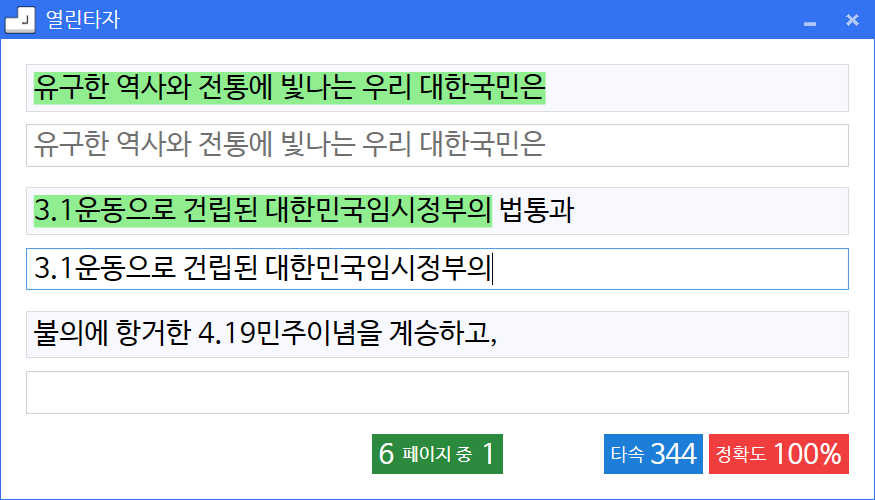
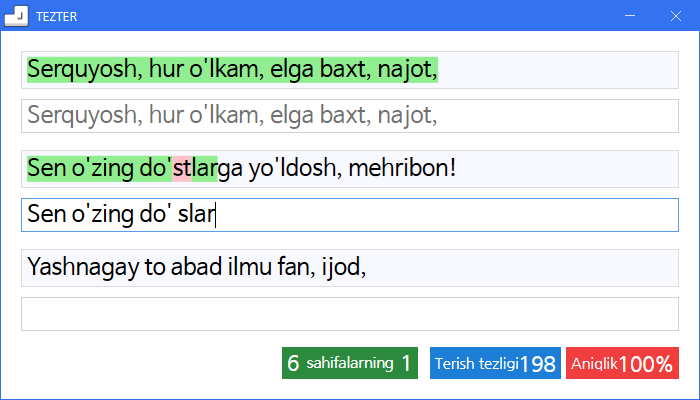
Update README.md

diff --git a/README.md b/README.md
@@ -1,10 +1,16 @@
-# 열린타자
+# TezTer
 
-열린타자는 현대적인 오픈 소스 타자 연습 프로그램입니다. 다양한 자판 종류 (사용자가 추가할 수 있음) 지원, 보기 좋은 디자인, 쓰기 쉬운 인터페이스의 제공이 목표입니다.
+TezTer is a modern open source typing practice program for world children. The goal is to provide support for multi-language, various keyboard types (which can be added by the user), various articles for practice (which can be added by the user), a good-looking design, and an easy-to-use interface.
 
-현재까지 구현된 연습의 종류는 자리 연습, 음절 연습 (한글 한정), 문장 연습, 긴 글 연습이 있습니다. 추후에 단어 연습 등을 추가할 예정입니다.
+The types of practice implemented so far are key practice, syllable practice (Korean only), sentence practice, and long article practice. Word practice will be added later.
 
-## 사진
+***
+
+TezTer - dunyodagi hamma bolalar uchun ochiq mabali zamonaviy klaviatura mashq dasturi. O'zbekcha matnlardan boshlab boshqa tillarning matnlargacha klaviaturni tez va to'g'ri terishni o'rganishga yordam beradi. Maqsad ko'p tilli, turli xil klaviatura turlarini (foydalanuvchi tomonidan qo'shilishi mumkin), mashq uchun turli xil maqolalarni (foydalanuvchi tomonidan qo'shilishi mumkin), chiroyli dizayn va foydalanish uchun qulay interfeysni qo'llab-quvvatlashdir.
+
+Hozirgacha amalga oshirilgan mashq turlari - harflar mashg'i, bo'g'inlar mashg'i (faqat koreyscha), gaplar mashg'i va matnlar mashg'i. So'z mashg'i keyinroq qo'shiladi.
+
+## Screenshots
 
 ![1](images/1.png)
 
@@ -14,6 +20,14 @@
 
 ![4](images/4.png)
 
-## 기여
+## Contribution (Hissa qo'shish)
 
-매우 환영합니다!
+Always very welcome to contribute!
+***
+Hissa qo'shishga doim marhamat!
+
+## How to build ('Build'ni qanday boshlash)
+
+Refer to [Wiki documents](https://github.com/roboticsware/OpenTyping/wiki)
+***
+[WiKi hujjatlari](https://github.com/roboticsware/OpenTyping/wiki)ga qarang
